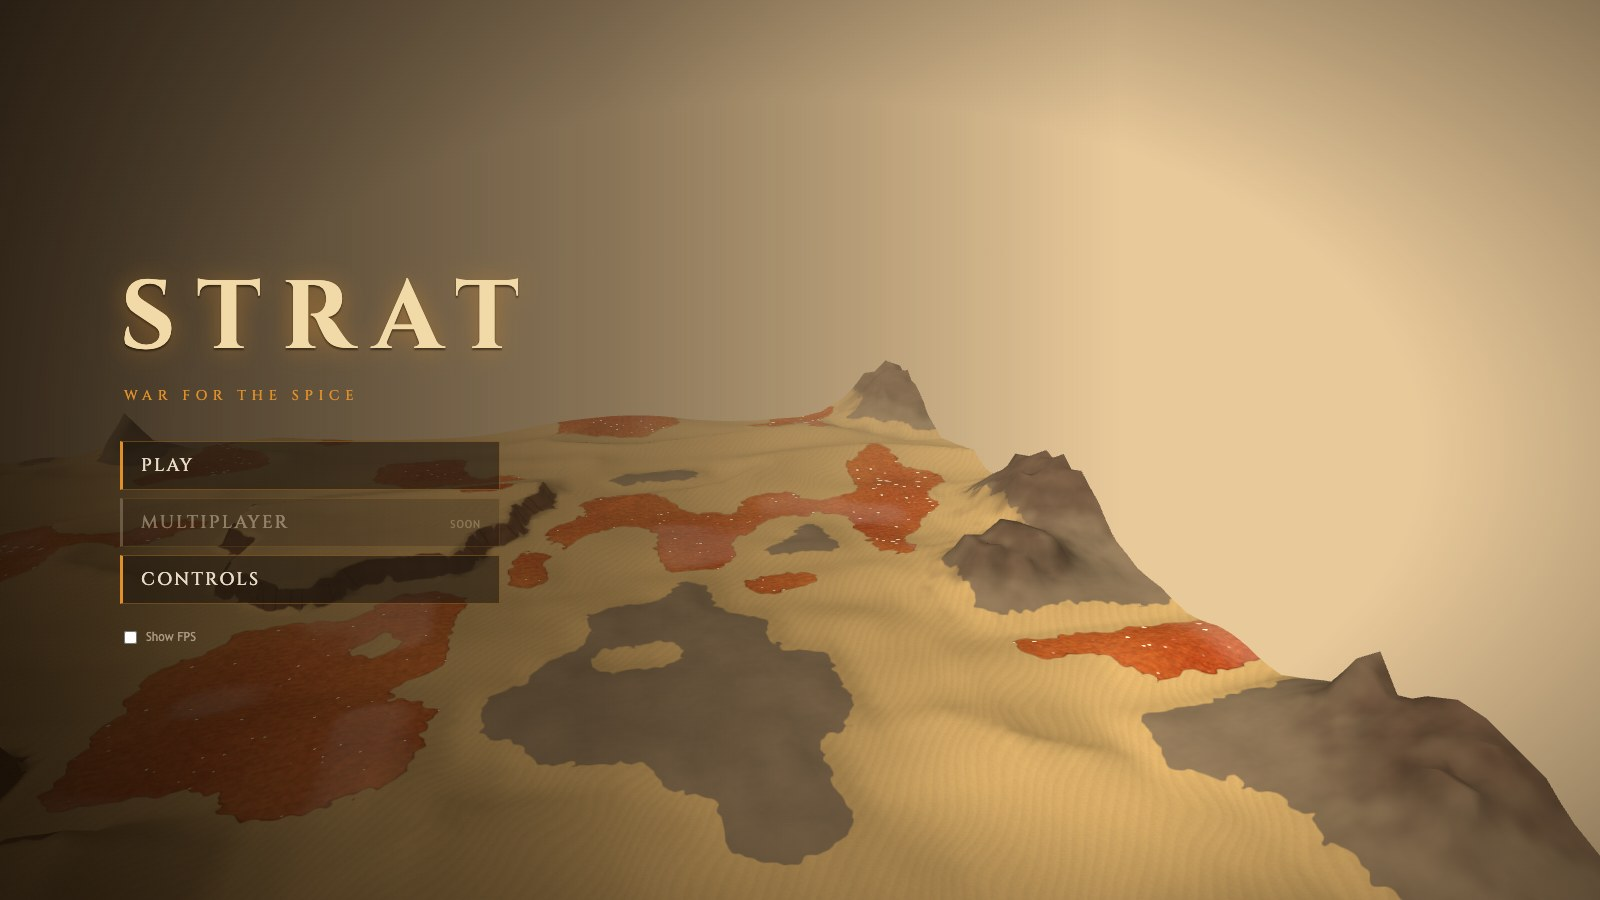
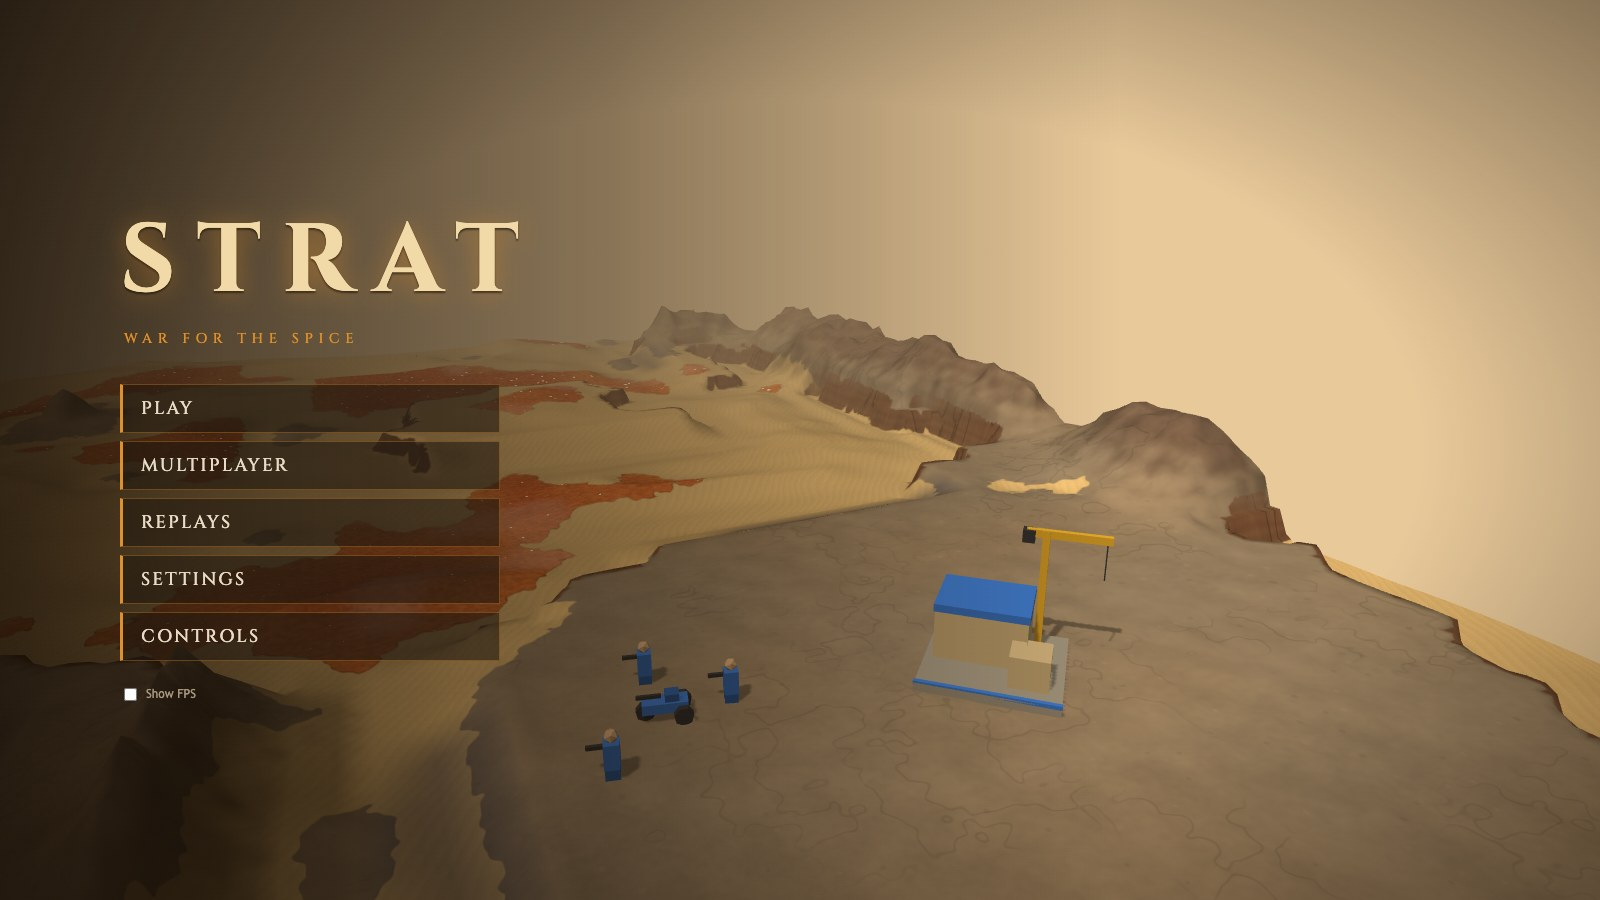
Updated readme

diff --git a/README.md b/README.md
@@ -1,37 +1,48 @@
 # Strat
 
-A Dune-style real-time strategy game in the browser, built with Three.js and TypeScript. Harvest spice, build a base, and fight a computer opponent across a randomly generated desert. You can also drop paratroopers on top of its base.
+A Dune-style real-time strategy game in the browser, built with Three.js and TypeScript. Harvest spice, build a base, and fight a computer opponent (or a friend, online) across a randomly generated desert as one of three factions: the mobile Atreides, the shielded Corrino, or the Fremen, who hide in the sand and call down Sandworms.
 
-![Carryalls parachuting infantry and trikes onto an enemy base](docs/screenshots/airdrop.jpg)
+![A Carryall paradropping Atreides infantry beside a Corrino base](docs/screenshots/airdrop.jpg)
 
 ## Features
 
-- **Classic Dune economy.** Harvesters collect spice and bring it to Refineries for credits, backing in against whichever side of the refinery is closest, and drive straight through your own army on the way. Spice fields shimmer and run out as they're harvested.
+- **Three factions that play differently.**
+  - **Atreides:** fast and mobile. Trikes, tanks, MLRS, Repair Vehicles, and Carryalls that airlift and paradrop units.
+  - **Corrino:** slow and shielded. Units and structures carry shields that recharge out of combat, structures repair themselves, and units heal at a Repair Pad. Sardaukar, flame-throwing Razors, Devastators that can self-destruct, Soulcrushers that dig in to shell from range, mine-laying Sky Raiders, and infantry that land by drop pod.
+  - **Fremen:** swift and hidden. No harvesters: Spice Crews set up camps right on the spice fields. Units dig into the sand when they stand still, out of the enemy's sight, heal on their own, and move faster on sand. Warriors, Fedaykin with weirding modules, rocket Mortars that set up to fire, and Wind Gliders for scouting. Structures can go on open sand.
+- **Sandworms.** Fremen Warriors and Fedaykin plant Thumpers. A few seconds later a wild Sandworm surfaces and swallows whatever moves on the sand around it, whoever it belongs to, and harvesters even standing still. Enemies nearby hear the drumming and can destroy the Thumper in time.
+- **Classic Dune economy.** Atreides and Corrino Harvesters collect spice and bring it to Refineries for credits, backing in against whichever side of the refinery is closest, and drive straight through your own army on the way. Spice fields shimmer and run out as they're harvested.
 - **StarCraft-style base handling.** Buildings sit at a 45-degree angle (only for the look: they still take up square tiles). Each production building has its own rally point, shown with a line and a flag while it's selected, and new units come out of the side facing it.
 - **Procedural maps.** Every game gets a new, point-symmetric map in one of three sizes. The desert has dunes, scattered mesas and rock shelves with cliffs on one edge. Spawns are random, and the end screen shows the seed so you can replay a map with `?seed=N`.
-- **Elevation that matters.** Units only climb to high ground by ramps, and they shoot further downhill than up. A base on a rock shelf has a cliff flank that only rocket launchers can hit from below, once something spots for them.
+- **Elevation that matters.** Units only climb to high ground by ramps, and they shoot further downhill than up. A base on a rock shelf has a cliff flank that only long-range artillery can hit from below, once something spots for them.
 - **Fog of war.** You only see what your units and buildings see. Low ground can't see up onto high ground, and high ground blocks the view past it, so mesas hide what's behind them. A Carryall overhead sees everything around it. Anything that shoots at you is revealed for a moment. Enemy structures stay on screen as last seen. Add `?reveal` to the address to lift the fog in single player.
-- **Bunkers.** Fill one with three infantry: they shoot out from cover, Infantry Rockets included, and can't be hit inside. Tanks and rocket launchers outrange them.
-- **Counter-based combat.** Units have StarCraft-style tags (light, armored, biological, mechanical) with bonus damage against them. Tanks and rocket launchers can fire on the move, and vehicles tilt with the ground.
-- **Tech and upgrades.** Level-2 Construction Yard and Factory, two tiers each of Weapons and Armor, Infantry Rockets, Trike Nitro and Harvesting. Each upgrade shows on the unit models.
+- **Bunkers.** Fill one with three infantry: they shoot out from cover, Infantry Rockets included, and can't be hit inside. Tanks and MLRS outrange them.
+- **Counter-based combat.** Units have StarCraft-style tags (light, armored, biological, mechanical) with bonus damage against them. Tanks and MLRS can fire on the move, and vehicles tilt with the ground and leave dust trails across the sand.
+- **Tech and upgrades.** Each faction has its own: building level-ups, Weapons and Armor, and faction upgrades such as Infantry Rockets and Trike Nitro (Atreides), Shields and Flame Range (Corrino), or Stillsuits, Sandwalk and Ambush (Fremen). Weapons and Armor upgrades show on the unit models.
 - **Carryalls and airborne drops.** The Hi-Tech Factory builds Carryalls. Each can lift a heavy vehicle, two trikes or six infantry and drop them anywhere:
   - Heavy vehicles are set down in a touch-and-go landing.
   - Infantry and trikes parachute out on a fly-by.
   - A Carryall assigned to a harvester ferries it between field and refinery, and flies it home if it comes under attack.
-- **Anti-air.** Infantry and rocket launchers can shoot Carryalls down. Troopers aboard a downed Carryall bail out by parachute.
-- **Repair.** Repair Vehicles fix vehicles, aircraft and buildings for credits. Infantry heal on their own once out of combat.
+- **Anti-air.** Infantry and MLRS can shoot aircraft down. Troopers aboard a downed Carryall bail out by parachute.
+- **Repair.** Atreides Repair Vehicles fix vehicles, aircraft and buildings for credits, and infantry heal on their own once out of combat. Corrino use a Repair Pad and mend their structures; Fremen heal on their own.
+- **Sound and music.** An announcer, unit acknowledgements, weapon and explosion sounds heard where you can see them, and music on the title screen and in matches. Separate volume sliders for effects, units, announcer and music, in Settings and in the in-game menu.
+- **Alerts and quality of life.** Located alerts ping the minimap ("Harvester under attack!", "Thumper detected!"), and Space jumps to the latest one. Shift queues orders, Rally All points every production building at once, the IDLE button finds idle harvesters and Spice Crews, and the credits readout estimates your income.
 - **Replays.** Every game is kept to watch again (title screen, Replays), and the end screen saves it as a small file to share. Watch at up to 16× speed, jump to any moment, and see the battle through either side's fog of war with both sides' numbers alongside. Two Brutal-vs-Brutal games, Fremen beating Corrino, come with the game.
 - **Online 1v1.** Host a game on your own server (a Raspberry Pi is plenty) and play a friend on your network. See [Multiplayer](#multiplayer).
-- **A computer opponent** that plays under the same fog of war as you, with no map knowledge: it scouts to find your base and see what you're building, and plans only from what it has seen. It defends in proportion to the attack, rebuilds its economy after losses, and offers to surrender when it's beaten (you can refuse and keep playing). On Hard it runs a bigger economy, attacks when it's stronger, raids your harvesters, repairs its vehicles after defending and pulls back from fights it's losing. On Brutal its units kite and focus fire, pull badly hurt units out of fights, and march in formation; it splits its attacks, raids more, and late in the game drops rocket launchers and paratroopers on your harvesters by Carryall, lifting them out again before you can catch them. End-of-game stats screen.
+- **A computer opponent** that plays any of the three factions (pick one, or Random) under the same fog of war as you, with no map knowledge: it scouts to find your base and see what you're building, and plans only from what it has seen. It defends in proportion to the attack, rebuilds its economy after losses, and offers to surrender when it's beaten (you can refuse and keep playing). On Hard it runs a bigger economy, attacks when it's stronger, raids your harvesters, repairs its vehicles after defending and pulls back from fights it's losing. It uses its faction's tricks: Corrino deploys Soulcrushers and drops pods, Fremen hide, set up camps and call Sandworms. On Brutal its units kite and focus fire, pull badly hurt units out of fights, and march in formation; it splits its attacks, raids more, and late in the game Atreides drop MLRS and paratroopers on your harvesters by Carryall, lifting them out again before you can catch them. End-of-game stats screen.
 
 ## Screenshots
 
 | | |
 |---|---|
-| ![The main menu over a fly-over of the desert](docs/screenshots/menu.jpg) | ![A built-up blue base with the sidebar](docs/screenshots/gameplay.jpg) |
-| The main menu, over a fly-over of the generated map. | A built-up base. A Carryall ferries the harvester. |
-| ![Blue and red armies clashing on a spice field](docs/screenshots/battle.jpg) | ![A Carryall setting a tank down on a spice field, kicking up red dust](docs/screenshots/landing.jpg) |
-| Armies clash over a spice field. | A touch-and-go drop: the Carryall's downwash raises red dust over spice. |
+| ![The main menu over a fly-over of the desert](docs/screenshots/menu.jpg) | ![A built-up blue Atreides base with a group of tanks selected](docs/screenshots/gameplay.jpg) |
+| The main menu, over a fly-over of the generated map. | An Atreides base, with the command card bottom left and the minimap bottom right. |
+| ![Atreides and Corrino armies clashing over a spice field](docs/screenshots/battle.jpg) | ![A Sandworm rearing out of the sand beside an Atreides refinery](docs/screenshots/worm.jpg) |
+| Atreides and Corrino clash over a spice field. | A Fremen Thumper's Sandworm bursts up beside an enemy refinery. |
+| ![A Corrino base with its Repair Pad and army](docs/screenshots/corrino.jpg) | ![A Fremen base with a group of Warriors selected](docs/screenshots/fremen.jpg) |
+| A Corrino base, with its Repair Pad and army. | A Fremen base, with a group of Warriors selected. |
+| ![Watching a replay, with the controls and both sides' numbers bottom left](docs/screenshots/replay.jpg) | |
+| Watching a replay: speed, timeline, whose eyes to watch through, and both sides' numbers. | |
 
 ## Getting started
 
@@ -46,7 +57,7 @@ Then open the address Vite prints (usually http://localhost:5173). `npm run buil
 
 ## Multiplayer
 
-Online games are 1v1 between two browsers, through a small game server you run yourself. The server only pairs players and passes their commands along. Each browser runs the whole game, in lockstep (see [docs/MULTIPLAYER.md](docs/MULTIPLAYER.md)), so the server needs almost no CPU.
+Online games are 1v1 between two browsers, through a small game server you run yourself. The server only pairs players and passes their commands along. Each browser runs the whole game, in lockstep (see [docs/MULTIPLAYER.md](docs/MULTIPLAYER.md)), so the server needs almost no CPU. The simulation does its own trigonometry rather than use the browser's, so it plays out bit for bit the same in Chrome, Firefox and Safari.
 
 On the machine that will host (your PC, or a Raspberry Pi):
 
@@ -56,7 +67,7 @@ npm run build
 npm run serve
 ```
 
-It prints addresses like `http://192.168.1.20:8080`. Both players open that address, pick **Multiplayer** and enter a name. One clicks **Host game**, and the other clicks the game under **Open games**.
+It prints addresses like `http://192.168.1.20:8080`. Both players open that address, pick **Multiplayer**, enter a name and choose a faction. One clicks **Host game**, and the other clicks the game under **Open games**.
 
 - `PORT=9000 npm run serve` uses another port.
 - During development, run `npm run serve` and `npm run dev` side by side. The dev page reaches the server through Vite.
@@ -71,19 +82,23 @@ It prints addresses like `http://192.168.1.20:8080`. Both players open that addr
 | Left click / drag | Select units, or box-select |
 | Double click | Select every unit (or building) of that type on screen |
 | **Tab** | In a mixed selection, hand the Command tab to the next unit type (the highest tier leads) |
-| Right click | Move, attack, harvest, set a rally point, repair (Repair Vehicle), pick up (Carryall) |
+| Right click | Move, attack, harvest, set a rally point, repair, pick up (Carryall), garrison a Bunker |
+| **Shift** + right click / ability | Queue it after the units' current orders (e.g. walk to a spice field, then Set Up Camp) |
 | **Q W E R** | Command card tabs: Build, Train, Upgrade, Command |
 | **A S D F**, **Z X C V** | The buttons on the open tab |
-| **A**, then click (Command tab) | Attack-move |
+| **A**, then click (Command tab) | Attack-move (on a production building: set its rally point) |
 | **S** (Command tab) | Stop |
-| **D**, then click (Command tab) | Carryall drop |
-| **F** (Command tab) | Unload a selected bunker |
-| **V** (Command tab) | Salvage a selected bunker (75% back after 5 s; right-click the button to cancel) |
-| **A**, then click (Command tab, Barracks / Factory / Hi-Tech) | Set the rally point (right-click does it too) |
+| **D** (Command tab) | The unit's ability: Carryall drop, Deploy / Pack Up, Lock On (MLRS), Lay Mine (Sky Raider), Set Up Camp (Spice Crew), Plant Thumper |
+| **F** (Command tab) | Hold Position (Bunker: Unload) |
+| **V** (Command tab) | Self-destruct (Devastator); salvage a Bunker |
+| **V** (Train tab) | Rally All: set every production building's rally point, keeping your selection |
+| IDLE button (top right) | Select the next idle harvester or Spice Crew (Shift: all of them) |
 | Minimap | Left click to look there; right click to send the selection there; attack-move, drop and rally clicks work on it too |
 | **Ctrl+1-9** / **1-9** | Set / select a control group (double-tap to jump to it) |
-| **Space** | Jump to your base |
-| **`** (left of 1) | Pause (not in online games) |
+| **Space** | Jump to the latest alert (else to your base) |
+| **`** (left of 1) | Select the whole army (twice: jump to it) |
+| **~** (Shift + `) | Select all idle harvesters and Spice Crews |
+| **P** | Pause (not in online games; in a replay, pauses playback) |
 | Arrow keys, screen edges, middle-drag | Pan the camera |
 | **Esc** | Cancel, or open the menu |
 
@@ -93,24 +108,68 @@ Click a button or press its key to build, train or research, and right-click it 
 
 ## Units and buildings
 
+Every faction starts with a Construction Yard (which builds its structures, one at a time) and a few units. The in-game tooltips have the full details.
+
+### Atreides
+
 | Building | Notes |
 |---|---|
-| Construction Yard | Builds structures. Upgrades to HQ Level 2. |
 | Refinery | Turns spice into credits. Comes with a free Harvester. |
 | Barracks | Trains infantry. |
-| Bunker | Holds three infantry, who shoot from it and can't be hurt while inside. Right-click it with infantry to fill it; Unload on the Command tab lets them out. |
-| Factory | Builds vehicles. Upgrades to Level 2 for Rocket Launchers and tier-2 upgrades. |
+| Bunker | Holds three infantry, who shoot from it and can't be hurt while inside. |
+| Factory | Builds vehicles. Level 2 unlocks the MLRS and tier-2 Weapons and Armor. |
 | Hi-Tech Factory | Builds Carryalls. |
 
 | Unit | Role |
 |---|---|
 | Harvester | Collects spice. |
-| Infantry | Cheap and strong against infantry. Devastating against armor with the Rockets upgrade. Can hit aircraft. |
-| Trike | Fast raider for harassing harvesters. |
+| Infantry | Cheap and strong against infantry. Devastating against armor with Infantry Rockets. Can hit aircraft. |
+| Trike | Fast raider for harassing harvesters. Faster still with Nitro. |
 | Tank | Main battle tank. Fires on the move. |
-| Rocket Launcher | Long-range artillery and anti-air. Can't fire up close. |
+| MLRS | Long-range rocket artillery and anti-air. Lock On makes its rockets home in. Can't fire up close. |
 | Repair Vehicle | Repairs vehicles, aircraft and buildings. |
 | Carryall | Airlifts and drops units, and ferries harvesters. |
+
+### Corrino
+
+Units and structures have shields that recharge out of combat. Structures can repair themselves (Mend); units heal only at a Repair Pad.
+
+| Building | Notes |
+|---|---|
+| Refinery, Barracks | As Atreides. The Imperial Barracks (level 2) unlocks Sardaukar and drop pods: new infantry land by pod at the rally point. |
+| Fab | Builds vehicles, aircraft and Harvesters. Level 2 unlocks the Devastator. |
+| Tleilaxu Research | Unlocks Sky Raiders, Soulcrushers, Devastators and Shields upgrades. |
+| Repair Pad | Restores units parked next to it, two at a time. |
+| Auto Turret | Small automatic gun emplacement. |
+
+| Unit | Role |
+|---|---|
+| Harkonnen Trooper | Shoulder rockets: strong against vehicles. |
+| Sardaukar | Elite close-quarters infantry. Tear through infantry and shoot down aircraft. |
+| Razor | Flame-throwing dune buggy that burns everything in front of it. |
+| Devastator | Slow heavy tank with a machine gun for infantry. Can self-destruct in a huge blast. |
+| Sky Raider | Ornithopter for scouting and raids. Lays mines. |
+| Soulcrusher | Deploys to shell anything your side can see at long range. Brutal on buildings. |
+
+### Fremen
+
+No harvesters or refineries: Spice Crews set up Spice Camps on the fields. Units hide when they stand still on sand, heal on their own, and move faster on sand. Structures can go on sand or rock.
+
+| Building | Notes |
+|---|---|
+| Barracks | Trains every Fremen unit. |
+| Sietch | Unlocks Fedaykin, Wind Gliders, Thumpers and research. The Great Sietch (level 2) unlocks Mortars and Ambush. |
+| Bunker | As Atreides. |
+| Spice Camp | Set up by a Spice Crew on a spice field. Turns the spice around it into credits, and packs up again when the field runs dry. |
+| Thumper | Planted by a Warrior or Fedaykin. Calls a wild Sandworm, which eats anything moving on the sand nearby, yours included. |
+
+| Unit | Role |
+|---|---|
+| Fremen Warrior | Cheap, fast fighter. Strong against infantry, can hit aircraft. |
+| Fedaykin | Elite fighters whose weirding modules tear through vehicles and pass straight through shields. |
+| Fremen Mortar | Sets up to lob guided rockets at anything your side can see. Strong against vehicles and structures. |
+| Spice Crew | Unarmed. Sets up Spice Camps. |
+| Wind Glider | The fastest thing in the sky. An unarmed scout that circles wherever it's sent. |
 
 ## Development
 
@@ -127,6 +186,7 @@ Click a button or press its key to build, train or research, and right-click it 
   - `CHECK=60 QUIET=1 npx tsx sim/maps.ts`: generate 60 maps and validate them.
   - `npx tsx sim/ai-fog-check.ts`: the AI knows only what it has seen, and scouts.
   - `npx tsx sim/vision-check.ts`: fog of war rules (cliffs, mesas, aircraft, attackers revealed).
+  - `FACTIONS=fremen,corrino sim/faction-match.sh 32 brutal brutal`: AI-vs-AI games between two factions, with what each side built and which abilities it used.
   - `npx tsx sim/determinism.ts`: the simulation is deterministic (same seed and commands, same game), which online play depends on.
   - `npx tsx sim/netplay-check.ts`: an online match between two headless players through the real server, checked for desyncs, and replayed from its command log.
   - `SAVE=replays npx tsx sim/replay-match.ts fremen,corrino brutal,brutal 8`: AI-vs-AI games saved as replay files (watch them from the title screen's Replays page, or with `npx tsx sim/replay-trace.ts <file>` minute by minute); `npx tsx sim/replay-check.ts <file>` checks a replay still plays back as recorded.
